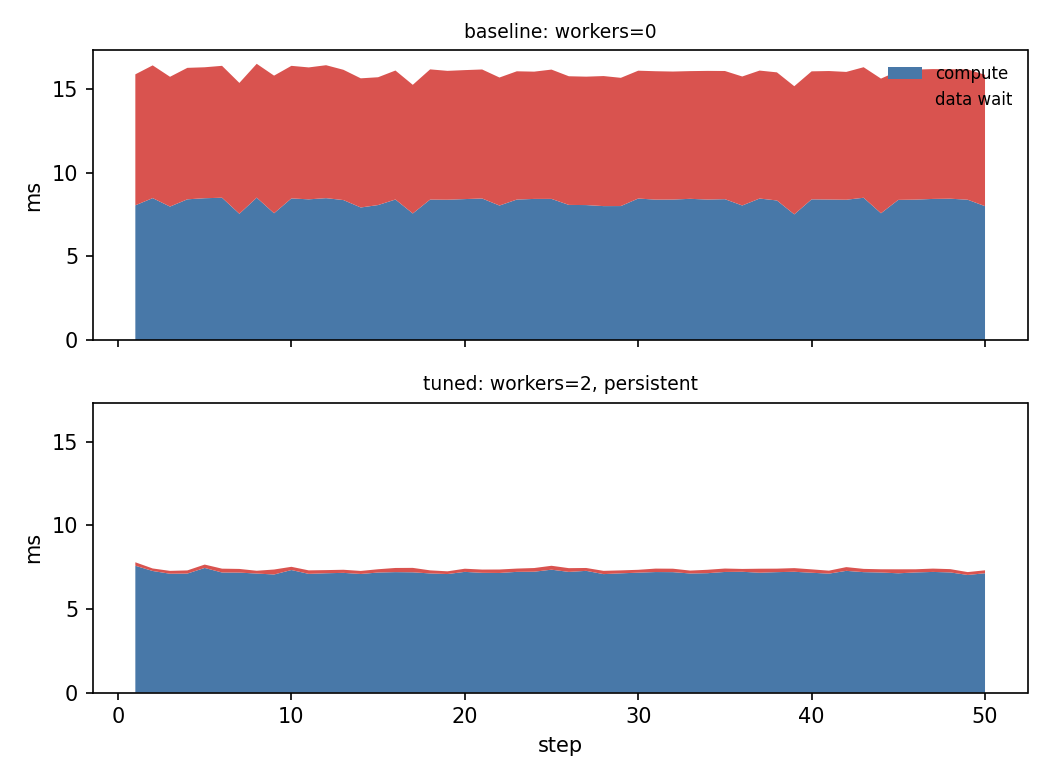
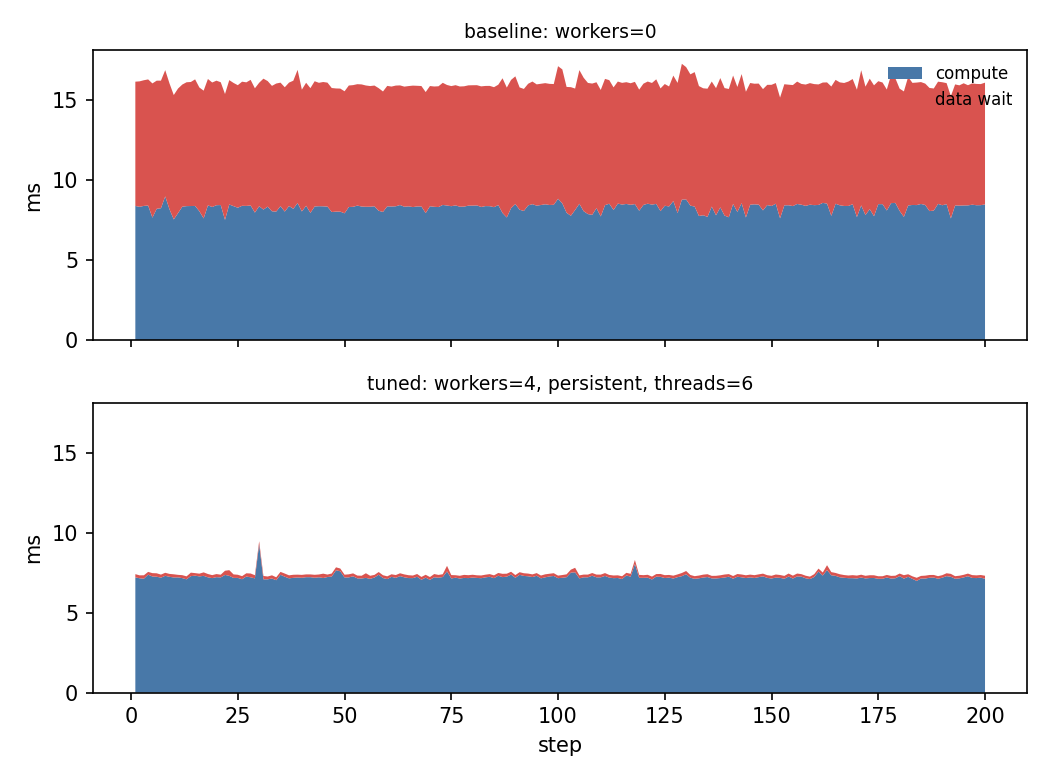
Add updated results from synthetic workload

diff --git a/report.md b/report.md
@@ -1,28 +1,31 @@
 # loadtune report — synthetic_bottleneck
 
-*2026-06-11 22:06 · device `mps` · 10 CPUs · brain `heuristic`*
+*2026-06-12 13:41 · device `mps` · 10 CPUs · brain `heuristic`*
 
 ## Diagnosis
 
-The workload is **input-bound**: 48% of step time is spent waiting for the DataLoader. Mean CPU utilisation during the run was 9.0%.
+The workload is **input-bound**: 48% of step time is spent waiting for the DataLoader. Mean CPU utilisation during the run was 8.7%.
 
 ## Baseline
 
 - config: `workers=0`
-- throughput: **3995.4 samples/s**
-- data wait: 48.5% of step time (0.39s of 0.80s over 50 steps)
-- step time p50/p90: 16.1 / 16.4 ms
+- throughput: **3993.8 samples/s**
+- data wait: 48.4% of step time (1.55s of 3.21s over 200 steps)
+- step time p50/p90: 16.0 / 16.4 ms
 - dataloader startup: 0.00s
 
 ## Trials
 
 | config | throughput (samples/s) | vs baseline | data wait | proposed because |
 |---|---|---|---|---|
-| `workers=1, persistent` | 7385.5 | 1.85x | 11.5% | data_wait_frac=48% ≥ 20%: input-bound, trying num_workers=1 |
-| `workers=2, persistent` | 8655.9 | 2.17x | 2.7% | data_wait_frac=48% ≥ 20%: input-bound, trying num_workers=2 |
-| `workers=4, persistent` | 8558.4 | 2.14x | 2.8% | data_wait_frac=48% ≥ 20%: input-bound, trying num_workers=4 |
-| `workers=5, persistent` | 8545.4 | 2.14x | 2.6% | data_wait_frac=48% ≥ 20%: input-bound, trying num_workers=5 |
-| `workers=8, persistent` | 8643.8 | 2.16x | 2.5% | data_wait_frac=48% ≥ 20%: input-bound, trying num_workers=8 |
+| `workers=1, persistent` | 7871.6 | 1.97x | 9.1% | data_wait_frac=48% ≥ 20%: input-bound, trying num_workers=1 |
+| `workers=2, persistent` | 8297.4 | 2.08x | 2.8% | data_wait_frac=48% ≥ 20%: input-bound, trying num_workers=2 |
+| `workers=4, persistent` | 8560.4 | 2.14x | 2.7% | data_wait_frac=48% ≥ 20%: input-bound, trying num_workers=4 |
+| `workers=4, persistent, threads=6` | 8641.7 | 2.16x | 2.5% | workers=4 claim cores: cap intra-op threads at 6 to avoid contention |
+| `workers=5, persistent` | 8628.1 | 2.16x | 2.6% | data_wait_frac=48% ≥ 20%: input-bound, trying num_workers=5 |
+| `workers=5, persistent, threads=5` | 8603.4 | 2.15x | 2.6% | workers=5 claim cores: cap intra-op threads at 5 to avoid contention |
+| `workers=8, persistent` | 8596.8 | 2.15x | 2.4% | data_wait_frac=48% ≥ 20%: input-bound, trying num_workers=8 |
+| `workers=8, persistent, threads=2` | 8592.9 | 2.15x | 2.5% | workers=8 claim cores: cap intra-op threads at 2 to avoid contention |
 
 ## Charts
 
@@ -35,4 +38,4 @@ The workload is **input-bound**: 48% of step time is spent waiting for the DataL
 
 ## Verdict
 
-**Recommended config: `workers=2, persistent` — 2.17x baseline throughput** (3995.4 → 8655.9 samples/s).
+**Recommended config: `workers=4, persistent, threads=6` — 2.16x baseline throughput** (3993.8 → 8641.7 samples/s).